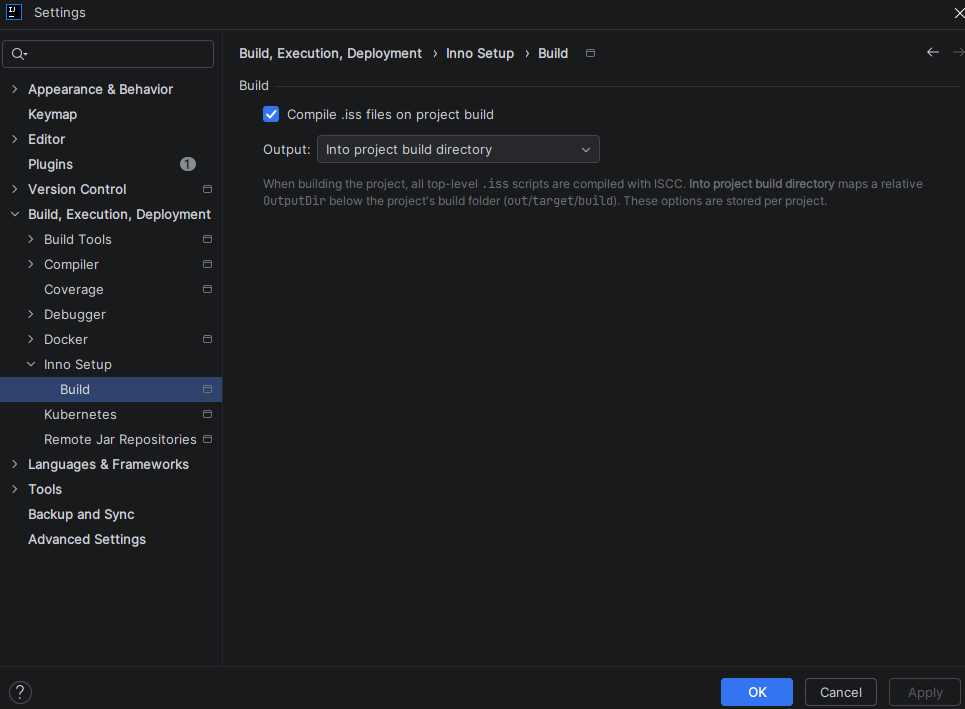
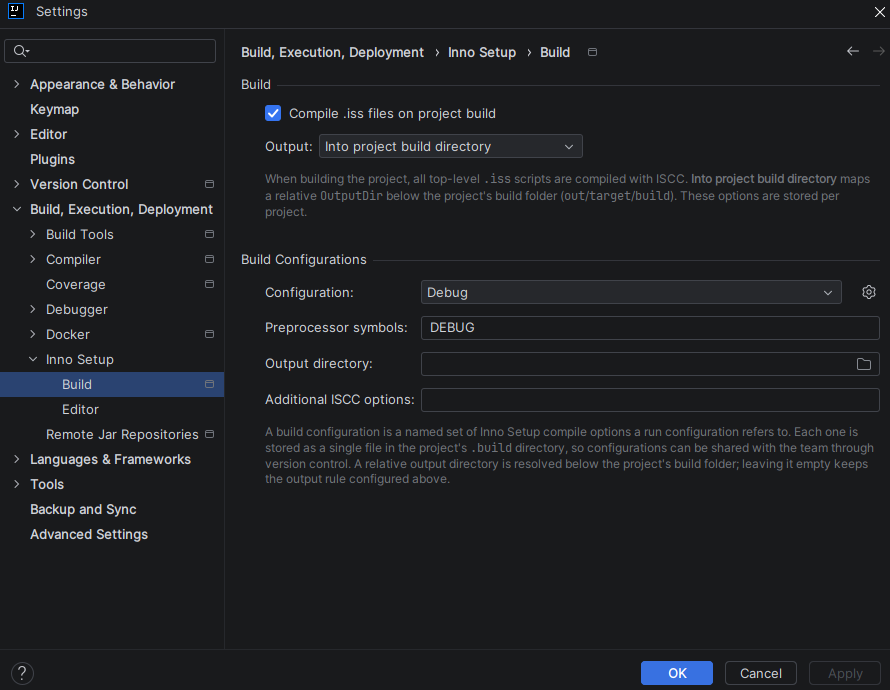
optimize settings dialog for build configuration

diff --git a/plugin/src/main/kotlin/org/pcsoft/intellij/plugin/inno_setup/settings/IsBuildSettingsConfigurable.kt b/plugin/src/main/kotlin/org/pcsoft/intellij/plugin/inno_setup/settings/IsBuildSettingsConfigurable.kt
@@ -14,17 +14,28 @@ package org.pcsoft.intellij.plugin.inno_setup.settings
 
 import com.intellij.codeInsight.daemon.DaemonCodeAnalyzer
 import com.intellij.icons.AllIcons
+import com.intellij.ide.DataManager
+import com.intellij.openapi.actionSystem.ActionPlaces
+import com.intellij.openapi.actionSystem.ActionToolbar
+import com.intellij.openapi.actionSystem.ActionUpdateThread
+import com.intellij.openapi.actionSystem.AnActionEvent
+import com.intellij.openapi.actionSystem.DefaultActionGroup
+import com.intellij.openapi.actionSystem.Presentation
+import com.intellij.openapi.actionSystem.impl.ActionButton
 import com.intellij.openapi.fileChooser.FileChooserDescriptorFactory
 import com.intellij.openapi.options.ConfigurationException
 import com.intellij.openapi.options.SearchableConfigurable
+import com.intellij.openapi.project.DumbAwareAction
 import com.intellij.openapi.project.Project
 import com.intellij.openapi.ui.ComboBox
 import com.intellij.openapi.ui.InputValidator
 import com.intellij.openapi.ui.Messages
 import com.intellij.openapi.ui.TextFieldWithBrowseButton
+import com.intellij.openapi.ui.popup.JBPopupFactory
 import com.intellij.ui.components.JBCheckBox
 import com.intellij.ui.components.JBTextField
 import com.intellij.ui.dsl.builder.Align
+import com.intellij.ui.dsl.builder.AlignX
 import com.intellij.ui.dsl.builder.panel
 import com.intellij.ui.dsl.listCellRenderer.listCellRenderer
 import org.pcsoft.intellij.plugin.inno_setup.build.IsBuildOutputMode
@@ -32,7 +43,6 @@ import org.pcsoft.intellij.plugin.inno_setup.build.config.IsBuildConfiguration
 import org.pcsoft.intellij.plugin.inno_setup.build.config.IsBuildConfigurationService
 import org.pcsoft.intellij.plugin.inno_setup.preprocessor.PluginBundle
 import javax.swing.DefaultComboBoxModel
-import javax.swing.JButton
 import javax.swing.JComponent
 import javax.swing.ListCellRenderer
 
@@ -41,6 +51,9 @@ import javax.swing.ListCellRenderer
  * project build, and for the project's named build configurations. Stored per project in
  * [IsBuildSettingsService] and [IsBuildConfigurationService]; registered as a project configurable
  * so the project scope marker stays on this node only, not on the IDE-wide installation page.
+ *
+ * The configuration selector follows the layout of the platform's Code Style / Color Scheme pages:
+ * a single header row with the selector combo and a gear button holding the management actions.
  */
 class IsBuildSettingsConfigurable(private val project: Project) : SearchableConfigurable {
 
@@ -63,7 +76,6 @@ class IsBuildSettingsConfigurable(private val project: Project) : SearchableConf
     private var symbolsField: JBTextField? = null
     private var outputDirField: TextFieldWithBrowseButton? = null
     private var optionsField: JBTextField? = null
-    private var removeButton: JButton? = null
 
     /**
      * Returns the stable settings page id used by IntelliJ search.
@@ -94,10 +106,7 @@ class IsBuildSettingsConfigurable(private val project: Project) : SearchableConf
 
         val combo = ComboBox<String>().apply {
             @Suppress("UNCHECKED_CAST")
-            renderer = listCellRenderer<String>("") {
-                icon(AllIcons.General.GearPlain)
-                text(value)
-            } as ListCellRenderer<String>
+            renderer = listCellRenderer<String>("") { text(value) } as ListCellRenderer<String>
             addActionListener { if (!loading) onConfigurationSelected(selectedIndex()) }
         }
         configCombo = combo
@@ -119,19 +128,7 @@ class IsBuildSettingsConfigurable(private val project: Project) : SearchableConf
         }
         optionsField = options
 
-        val addButton = JButton(PluginBundle.message("settings.build.config.add")).apply {
-            addActionListener { addConfiguration() }
-        }
-        val copyButton = JButton(PluginBundle.message("settings.build.config.copy")).apply {
-            addActionListener { copyConfiguration() }
-        }
-        val renameButton = JButton(PluginBundle.message("settings.build.config.rename")).apply {
-            addActionListener { renameConfiguration() }
-        }
-        val deleteButton = JButton(PluginBundle.message("settings.build.config.remove")).apply {
-            addActionListener { removeConfiguration() }
-        }
-        removeButton = deleteButton
+        val gearButton = createGearButton()
 
         return panel {
             group("Build") {
@@ -149,13 +146,8 @@ class IsBuildSettingsConfigurable(private val project: Project) : SearchableConf
             }
             group(PluginBundle.message("settings.build.config.group")) {
                 row(PluginBundle.message("settings.build.config.configuration") + ":") {
-                    cell(combo).align(Align.FILL)
-                }
-                row {
-                    cell(addButton)
-                    cell(copyButton)
-                    cell(renameButton)
-                    cell(deleteButton)
+                    cell(combo).align(AlignX.FILL).resizableColumn()
+                    cell(gearButton)
                 }
                 row(PluginBundle.message("settings.build.config.symbols") + ":") {
                     cell(symbols).align(Align.FILL)
@@ -224,13 +216,69 @@ class IsBuildSettingsConfigurable(private val project: Project) : SearchableConf
         symbolsField = null
         outputDirField = null
         optionsField = null
-        removeButton = null
     }
 
     private fun selectedOutputMode(): IsBuildOutputMode =
         outputModeCombo?.selectedItem as? IsBuildOutputMode ?: IsBuildOutputMode.DEFAULT
 
     // ── Build configuration editing ───────────────────────────────────────────────────────────────
+
+    /**
+     * Creates the gear button next to the selector combo. It opens the management actions as a popup,
+     * mirroring the scheme actions of the Code Style page.
+     */
+    private fun createGearButton(): ActionButton {
+        val group = DefaultActionGroup(
+            action(PluginBundle.message("settings.build.config.add")) { addConfiguration() },
+            action(PluginBundle.message("settings.build.config.copy")) { copyConfiguration() },
+            action(PluginBundle.message("settings.build.config.rename")) { renameConfiguration() },
+            // The last configuration must stay: a project without one cannot run anything.
+            action(PluginBundle.message("settings.build.config.remove"), { working.size > 1 }) { removeConfiguration() }
+        )
+
+        lateinit var button: ActionButton
+        val showAction = object : DumbAwareAction(
+            PluginBundle.message("settings.build.config.actions"),
+            null,
+            AllIcons.General.GearPlain
+        ) {
+            override fun getActionUpdateThread() = ActionUpdateThread.EDT
+
+            override fun actionPerformed(e: AnActionEvent) {
+                JBPopupFactory.getInstance()
+                    .createActionGroupPopup(
+                        null,
+                        group,
+                        DataManager.getInstance().getDataContext(button),
+                        JBPopupFactory.ActionSelectionAid.SPEEDSEARCH,
+                        true
+                    )
+                    .showUnderneathOf(button)
+            }
+        }
+        val presentation = Presentation(PluginBundle.message("settings.build.config.actions")).apply {
+            icon = AllIcons.General.GearPlain
+        }
+        button = ActionButton(
+            showAction,
+            presentation,
+            ActionPlaces.UNKNOWN,
+            ActionToolbar.DEFAULT_MINIMUM_BUTTON_SIZE
+        )
+        return button
+    }
+
+    /** Builds a popup entry with an optional enablement predicate. */
+    private fun action(text: String, enabled: () -> Boolean = { true }, perform: () -> Unit) =
+        object : DumbAwareAction(text) {
+            override fun getActionUpdateThread() = ActionUpdateThread.EDT
+
+            override fun update(e: AnActionEvent) {
+                e.presentation.isEnabled = enabled()
+            }
+
+            override fun actionPerformed(e: AnActionEvent) = perform()
+        }
 
     private fun selectedIndex(): Int = configCombo?.selectedIndex ?: -1
 
@@ -254,8 +302,6 @@ class IsBuildSettingsConfigurable(private val project: Project) : SearchableConf
         symbolsField?.isEnabled = editable
         outputDirField?.isEnabled = editable
         optionsField?.isEnabled = editable
-        // The last configuration must stay: a project without one cannot run anything.
-        removeButton?.isEnabled = working.size > 1
     }
 
     private fun onConfigurationSelected(newIndex: Int) {

diff --git a/docs/docs/settings-build.md b/docs/docs/settings-build.md
@@ -37,7 +37,9 @@ one place, so several runs can share them and editing them takes effect everywhe
 | **Output directory**       | Overrides where the installer is written. A relative path is resolved below the project's build folder. Leave it empty to keep the **Output** rule from above. |
 | **Additional ISCC options**| Further raw `ISCC` command-line options, separated by spaces. Wrap values containing spaces in double quotes.                                                   |
 
-Use **Add**, **Copy**, **Rename** and **Remove** to manage the list. At least one configuration must remain.
+The gear button next to the **Configuration** drop-down opens the management actions **Add…**,
+**Duplicate…**, **Rename…** and **Delete** — the same layout the IDE uses for code style schemes.
+At least one configuration must remain, so **Delete** is disabled on the last one.
 
 ### Defaults
 

diff --git a/CHANGELOG.md b/CHANGELOG.md
@@ -44,6 +44,9 @@
   configuration, reusing a matching one where possible.
 - New colour scheme entry **Preprocessor | Inactive branch** for the dimming (Settings | Editor | Color
   Scheme).
+- The build configurations under **Settings | Inno Setup | Build** are now managed like code style schemes:
+  the four buttons were replaced by a gear button next to the drop-down offering **Add…**, **Duplicate…**,
+  **Rename…** and **Delete**.
 
 ### Fixed
 

diff --git a/.claude/CLAUDE.md b/.claude/CLAUDE.md
@@ -152,6 +152,7 @@
 ## Console / CLI Output
 
 * On Console or in CLI: MUST ALWAYS in GERMANY
+* Plans printed on Console MUST ALWAYS in GERMANY
 
 ## File Output
 
